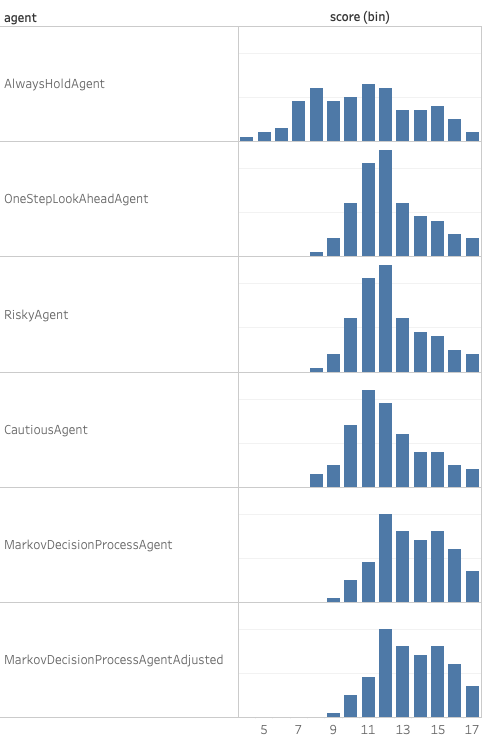
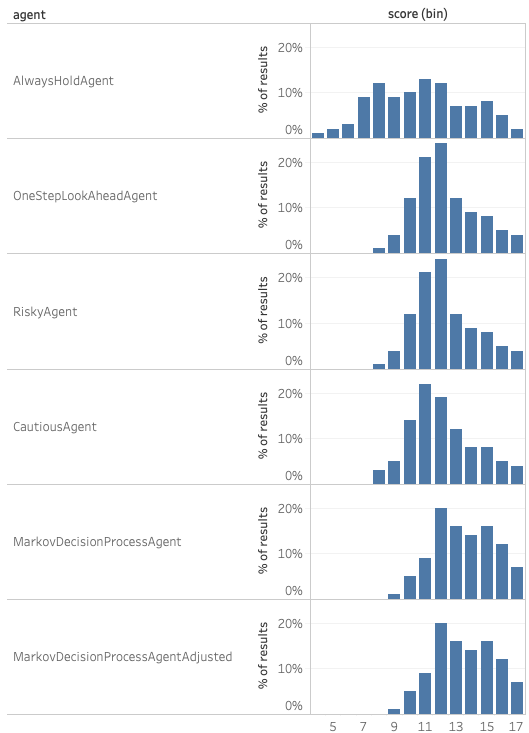
typo and image updates

diff --git a/README.md b/README.md
@@ -94,7 +94,7 @@ we can rewrite our version of the update equation. For simplicity, only one roll
 >
 >roll_1 = &sum;<sub>s', r</sub> p(s', r | s, roll_1)r + &gamma;&sum;<sub>s', r</sub> p(s', r | s, roll_1)V<sub>k</sub>(s'))
 >
-> &sum;<sub>s', r</sub> p(s', r | s, roll) r = 1
+> &sum;<sub>s', r</sub> p(s', r | s, roll_1) r = 1
 >
 >roll_1 = r + &gamma;&sum;<sub>s', r</sub> p(s', r | s, roll_1) V<sub>k</sub>(s') 
 >
@@ -176,7 +176,6 @@ before the max delta squared was less than theta squared.
 ## Comparison of performance
 
 Table of average game score over 100 random games. 
-
 All agents were given the same game and starting seed. 
 
 | Agent                              | Mean Score |
@@ -189,8 +188,9 @@ All agents were given the same game and starting seed.
 | MarkovDecisionProcessAgent         |  13.53     |
 | MarkovDecisionProcessAgentAdjusted |  13.53     |
 
-Histograms comparing the performance of all the agents. The PerfectionistAgent is shown on
-a separate histogram as it's scores were too low to be compared with the other agents.
+Histograms comparing the performance of all the agents are presented below. 
+The PerfectionistAgent is shown on a separate histogram as its scores were too low 
+to be compared with the other agents.
 
 The Markov Decision Process agents perform identically and out perform all other agents.
 
